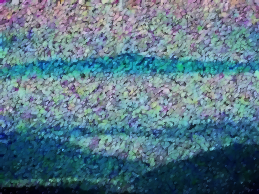
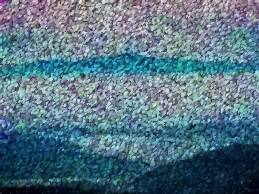
task2change

diff --git a/Task_2.2/scenary.py b/Task_2.2/scenary.py
@@ -3,9 +3,9 @@ import cv2 as cv
 img = cv.imread("noisy.jpg")
 cv.imshow("img",img)
 gaus= cv.GaussianBlur(img,(3,3),0.5)
-# cv.imshow("gaus",gaus)
-result = cv.fastNlMeansDenoisingColored(gaus, None,h=15,hColor= 15, templateWindowSize=3,searchWindowSize= 10)
-# cv.imshow("result",result)
+cv.imshow("gaus",gaus)
+result = cv.fastNlMeansDenoisingColored(gaus, None,h=10,hColor= 10, templateWindowSize=7,searchWindowSize= 21)
+cv.imshow("result",result)
 kernel = cv.getStructuringElement(cv.MORPH_ELLIPSE,(2,2))
 morph = cv.morphologyEx(result,cv.MORPH_OPEN,kernel)
 
